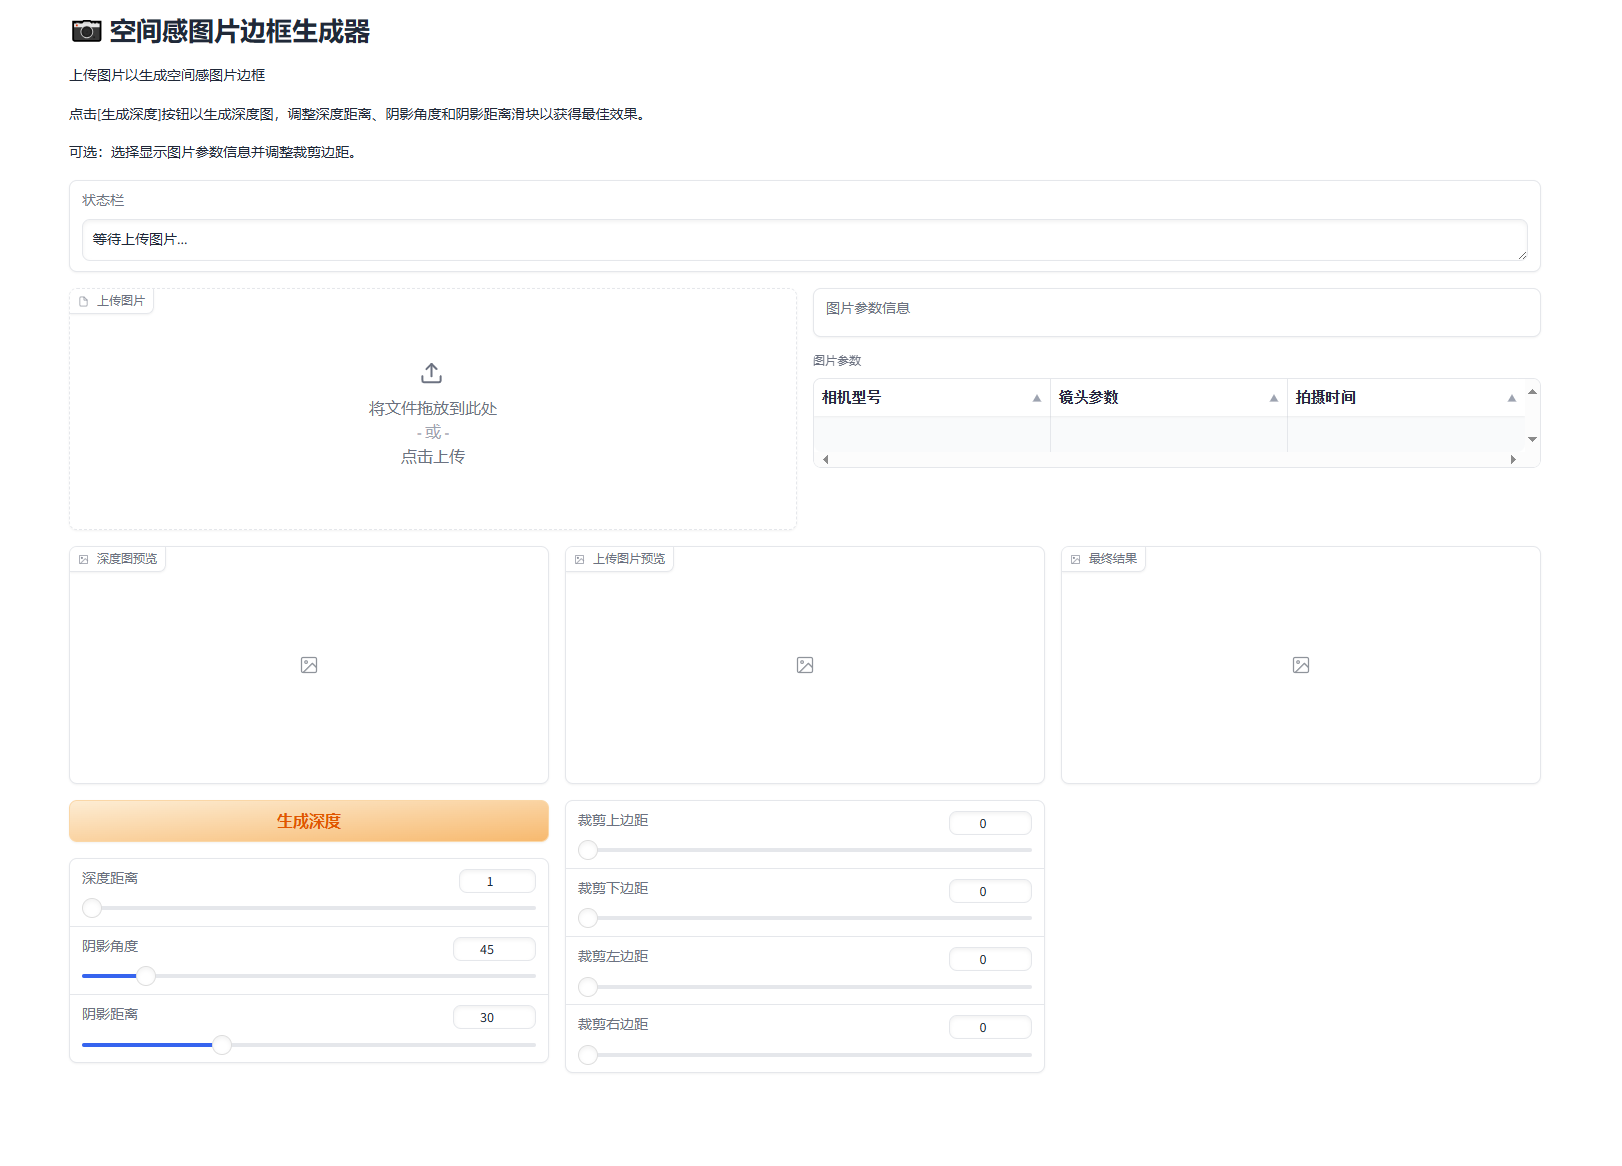
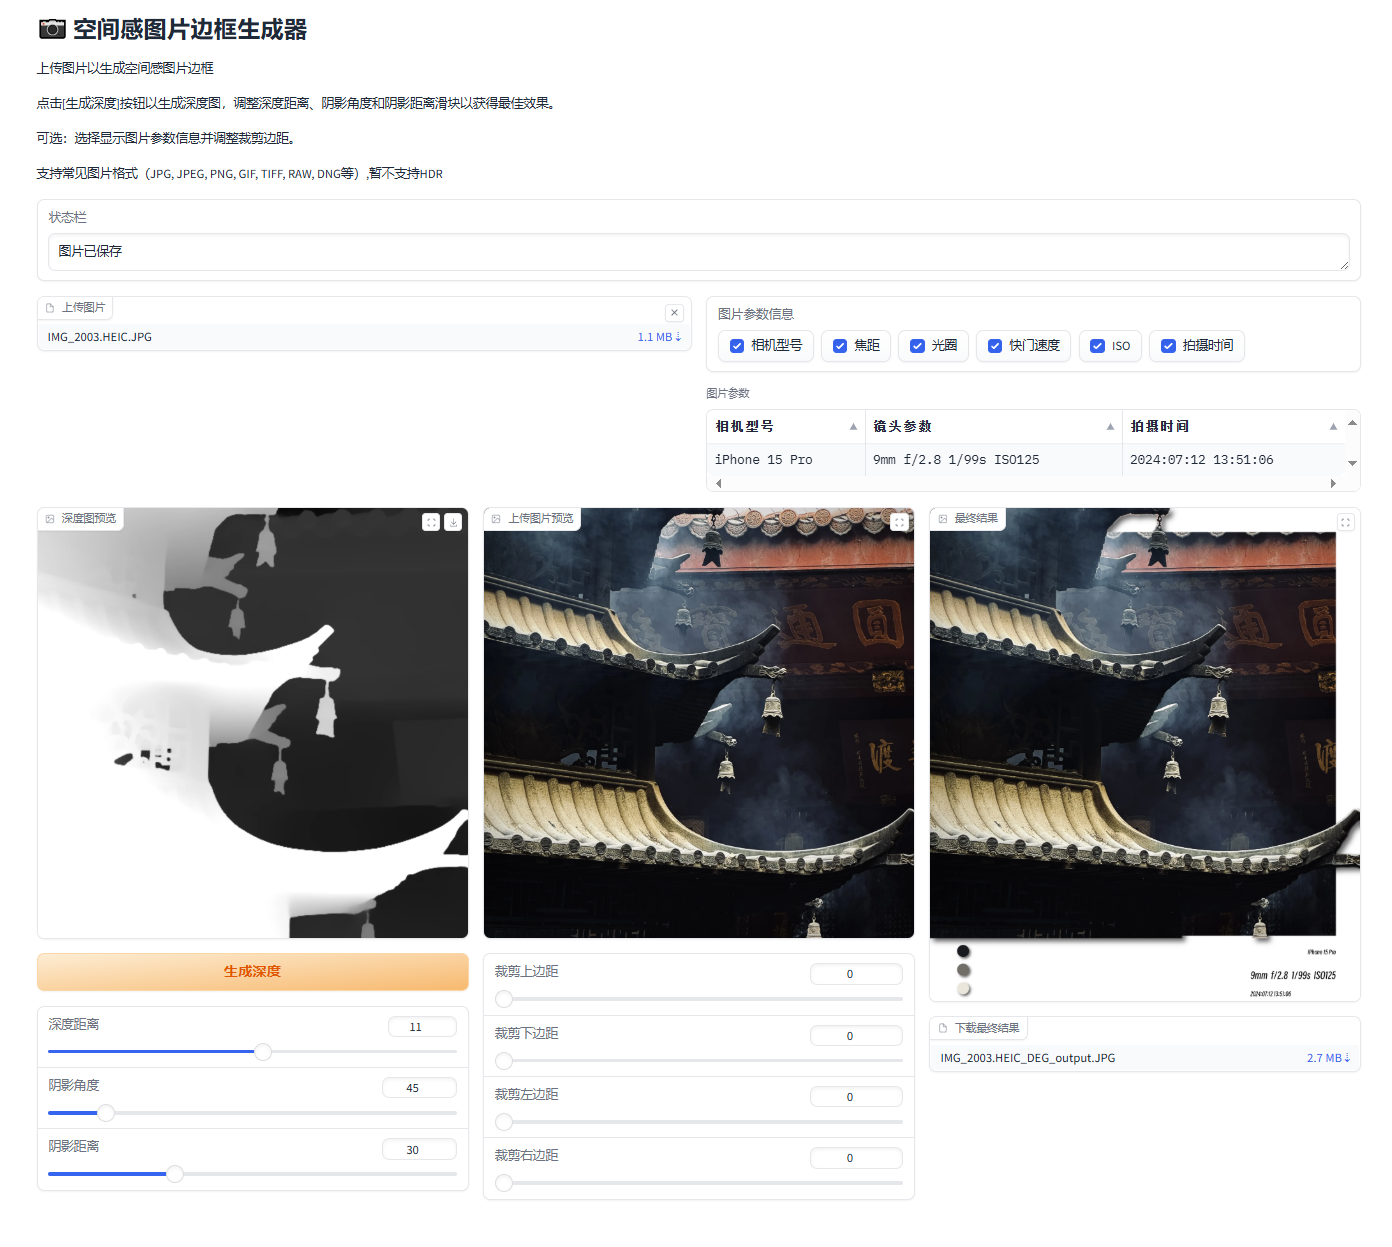
1.0

diff --git a/app.py b/app.py
@@ -5,12 +5,12 @@ import numpy as np
 import pandas as pd
 from add_sideborder import add_side_borders
 from combine_image import composite_images_with_mask
-from get_imagemetadate import get_photo_metadata
+from get_imagemetadata import get_photo_metadata, deliver_metadata
 from add_bottomborder import add_bottom_border
 from get_depthmap import get_photo_depth
 
 def check_file_type(image_path):
-    valid_extensions = ['.jpg', '.jpeg', '.png', '.gif', '.tiff', '.raw', '.DNG']
+    valid_extensions = ['.jpg', '.jpeg', '.png', '.gif', '.tiff', '.raw', '.dng']
     file_ext = os.path.splitext(image_path)[1].lower()
     if file_ext not in valid_extensions:
         return False
@@ -74,6 +74,25 @@ def crop_image(image_path, depth_image, up_crop, down_crop, left_crop, right_cro
 def clear_image():
     return None, "等待上传图片..."
 
+def save_image(image_path, image):
+    if image is not None and image_path is not None:
+        base, ext = os.path.splitext(os.path.basename(image_path))
+        if ext.lower() in ['.dng', '.DNG', '.raw', '.tiff', '.tif']:
+            save_name = f"{base}_DEG_output.png"
+        else:
+            save_name = f"{base}_DEG_output{ext}"
+        save_path = os.path.join(os.path.dirname(image_path), save_name)
+        # 处理PNG带alpha通道的情况
+
+        if ext.lower() in ['.jpg', '.jpeg'] and image.shape[-1] == 4:
+            image = cv2.cvtColor(image, cv2.COLOR_BGRA2BGR)
+
+        cv2.imwrite(save_path, cv2.cvtColor(image, cv2.COLOR_RGB2BGR), [cv2.IMWRITE_PNG_COMPRESSION, 0])
+        deliver_metadata(image_path, save_path)
+        return save_path, "图片已保存"
+    else:
+        return None, "等待上传图片..."
+
 def combine_image(image, metadata_need, depth, depth_slider, depth_angle_slider, depth_distance_slider):
     if image is not None:
         if depth is None:
@@ -87,6 +106,7 @@ def combine_image(image, metadata_need, depth, depth_slider, depth_angle_slider,
             side_output = add_side_borders(image, depth, depth_angle_slider, depth_distance_slider)
             combine_output = composite_images_with_mask(image, side_output, depth)
             bottom_output = add_bottom_border(combine_output, metadata_need, depth, depth_angle_slider, depth_distance_slider)
+
 
         return bottom_output
     else:
@@ -151,6 +171,7 @@ if __name__ == '__main__':
         gr.Markdown("上传图片以生成空间感图片边框\n\n"
                     "点击[生成深度]按钮以生成深度图，调整深度距离、阴影角度和阴影距离滑块以获得最佳效果。\n\n"
                     "可选：选择显示图片参数信息并调整裁剪边距。\n\n"
+                    "支持常见图片格式（JPG, JPEG, PNG, GIF, TIFF, RAW, DNG等）,暂不支持HDR"
                     )
 
         with gr.Column():
@@ -214,6 +235,13 @@ if __name__ == '__main__':
                         type="numpy",
                         format='png',
                         label="最终结果",
+                        interactive = False,
+                        show_download_button=False
+                    )
+
+                    output_image_download = gr.File(
+                        label="下载最终结果",
+                        file_types=['.png'],
                         interactive = False
                     )
 
@@ -258,6 +286,12 @@ if __name__ == '__main__':
             outputs=[metadata_need]
         )
 
+        metadata_need.change(
+            fn=combine_image,
+            inputs=[show_image, metadata_need, depth_image, depth_slider, depth_angle_slider, depth_distance_slider],
+            outputs=[output_image]
+        )
+
         show_image.change(
             fn=combine_image,
             inputs=[show_image, metadata_need, depth_image, depth_slider, depth_angle_slider, depth_distance_slider],
@@ -292,6 +326,12 @@ if __name__ == '__main__':
             fn=get_photo_depth,
             inputs=[show_image],
             outputs=[depth_image]
+        )
+
+        output_image.change(
+            fn=save_image,
+            inputs=[input_image, output_image],
+            outputs=[output_image_download, status_bar]
         )
 
     demo.launch()

diff --git a/get_imagemetadata.py b/get_imagemetadata.py
@@ -1,0 +1,76 @@
+import exifread
+import os
+import datetime
+import piexif
+from PIL import Image
+
+def get_photo_metadata(image_path):
+    print(f"[{datetime.datetime.now().strftime('%Y-%m-%d %H:%M:%S')}] get_photo_metadata processing...")
+
+    try:
+        with open(image_path, 'rb') as f:
+            tags = exifread.process_file(f)
+    except Exception as e:
+        print(f"读取文件时出错")
+        return None
+
+    metadata = {}
+
+    # 相机品牌和型号
+    metadata['相机型号'] = tags.get('Image Model', '未知').values if 'Image Model' in tags else '未知'
+
+    # 焦距
+    if 'EXIF FocalLength' in tags:
+        focal_length = tags['EXIF FocalLength'].values
+        metadata['焦距'] = f"{int(round(focal_length[0], 0))}mm"
+    else:
+        metadata['焦距'] = '未知'
+
+    # 光圈
+    if 'EXIF FNumber' in tags:
+        f_number = tags['EXIF FNumber'].values[0]
+        metadata['光圈'] = f"f/{round(float(f_number), 1)}"
+    else:
+        metadata['光圈'] = '未知'
+
+    # 快门速度
+    if 'EXIF ExposureTime' in tags:
+        exposure_time = tags['EXIF ExposureTime'].values[0]
+        metadata['快门速度'] = f"{exposure_time}s"
+    else:
+        metadata['快门速度'] = '未知'
+
+    # ISO
+    if 'EXIF ISOSpeedRatings' in tags:
+        metadata['ISO'] = tags['EXIF ISOSpeedRatings'].values[0]
+    else:
+        metadata['ISO'] = '未知'
+
+    # 拍摄日期时间
+    if 'EXIF DateTimeOriginal' in tags:
+        metadata['拍摄时间'] = tags['EXIF DateTimeOriginal'].values
+    else:
+        metadata['拍摄时间'] = '未知'
+
+    return metadata
+
+def deliver_metadata(image_path, output_path):
+    try:
+        # 读取原图的EXIF数据
+        exif_dict = piexif.load(image_path)
+        # 打开输出图片
+        image = Image.open(output_path)
+        icc_profile = image.info.get('icc_profile')
+        # 保存时写入EXIF
+        image.save(output_path, exif=piexif.dump(exif_dict), quality=100, subsampling=0, compress_level=1, icc_profile=icc_profile)
+        print(f"[{datetime.datetime.now().strftime('%Y-%m-%d %H:%M:%S')}] deliver_metadata: EXIF已写入输出图片")
+    except Exception as e:
+        print(f"deliver_metadata出错: {e}")
+
+if __name__ == "__main__":
+    # 示例用法
+    # 替换为你的照片路径
+    photo_path = r"C:\Users\ver\Desktop\IMG_1993.HEIC.JPG"
+
+    # 读取并显示元数据
+    metadata = get_photo_metadata(photo_path)

diff --git a/add_bottomborder.py b/add_bottomborder.py
@@ -2,20 +2,12 @@ import cv2
 import numpy as np
 from get_color import get_dominant_colors
 from add_font import add_font_to_image, get_word_length
+import pandas as pd
 import math
 import datetime
 
 def add_bottom_border(img, camera_params, depth, angle, distance, text_color=(30, 30, 30)):
     print(f"[{datetime.datetime.now().strftime('%Y-%m-%d %H:%M:%S')}] add_bottomborder processing...")
-    """
-    使用OpenCV为图片添加符合黄金比例的底部白边，并在白边左侧添加色彩样本图
-    参数:
-        img: 输入图片的numpy数组
-        camera_params: 拍摄参数列表
-        text_color: 文字颜色
-        color_sample_path: 色彩样本图路径（PNG，透明背景）
-    """
-
     # 获取原图尺寸 (高度, 宽度, 通道数)
     height, width = img.shape[:2]
 
@@ -143,11 +135,11 @@ if __name__ == "__main__":
     output_image = "output_polaroid.png"  # 输出图片路径，可选
     depth = cv2.imread(r"C:\Users\ver\Desktop\image_read\depth.png") # 黑白遮罩图片路径
     depth = cv2.cvtColor(depth, cv2.COLOR_BGR2GRAY)
-    CAMERA_PARAMS = np.array([
-        "Canon EOS R5",
-        "35mm  f/5.6  1/125s  ISO200",
-        "2024-06-10"
-    ])
+    CAMERA_PARAMS = pd.DataFrame([{
+        "相机型号": "Canon EOS R5",
+        "镜头参数": "35mm  f/5.6  1/125s  ISO200",
+        "拍摄时间": "2024-06-10"
+    }])
     # 调用函数添加拍立得风格边框
     img = cv2.imread(input_image)
     add_bottom_border(img, CAMERA_PARAMS, depth, 45, 50, text_color=(30, 30, 30))

diff --git a/README.md b/README.md
@@ -2,6 +2,13 @@
 
 本项目是一个基于OpenCV、Gradio和深度学习的图片处理工具，支持拍立得风格边框、主色彩提取、深度图分区、EXIF信息展示等功能。适合摄影爱好者、AI艺术创作者和图像处理开发者。
 
+## 示例图片
+
+![IMG_2003.HEIC_DEG_output](assets/IMG_2003.HEIC_DEG_output.JPG)
+![IMG_3552.HEIC_DEG_output](assets/IMG_3552.HEIC_DEG_output.JPG)
+![IMG_3343.HEIC_DEG_output](assets/IMG_3343.HEIC_DEG_output.JPG)
+![IMG_1539_DEG_output](assets/IMG_1539_DEG_output.png)
+
 ## 主要功能
 
 - **拍立得风格边框**：为图片自动添加底部白边和主色彩圆点，支持阴影、角度、距离等参数自定义。
@@ -15,6 +22,7 @@
 ```
 DepthEdge-Gen/
 ├── add_bottomborder.py
+├── add_font.py
 ├── add_sideborder.py
 ├── combine_image.py
 ├── get_color.py
@@ -22,8 +30,6 @@ DepthEdge-Gen/
 ├── get_imagemetadate.py
 ├── app.py
 ├── requirements.txt
-├── assets/
-│   └── gui.png
 ├── font/
 │   └── SmileySans-Oblique.ttf
 ├── model/
